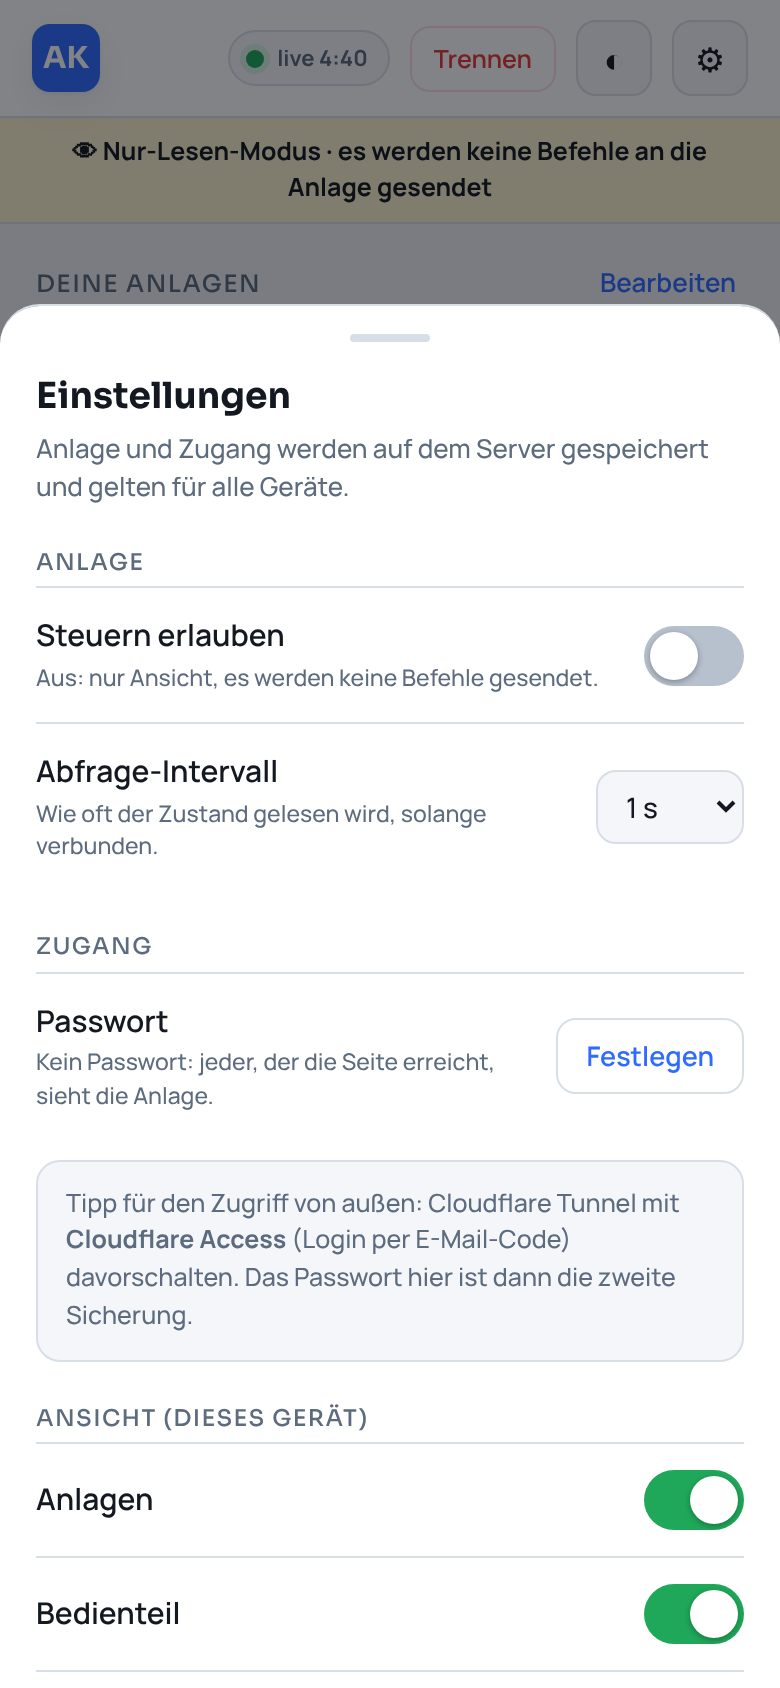
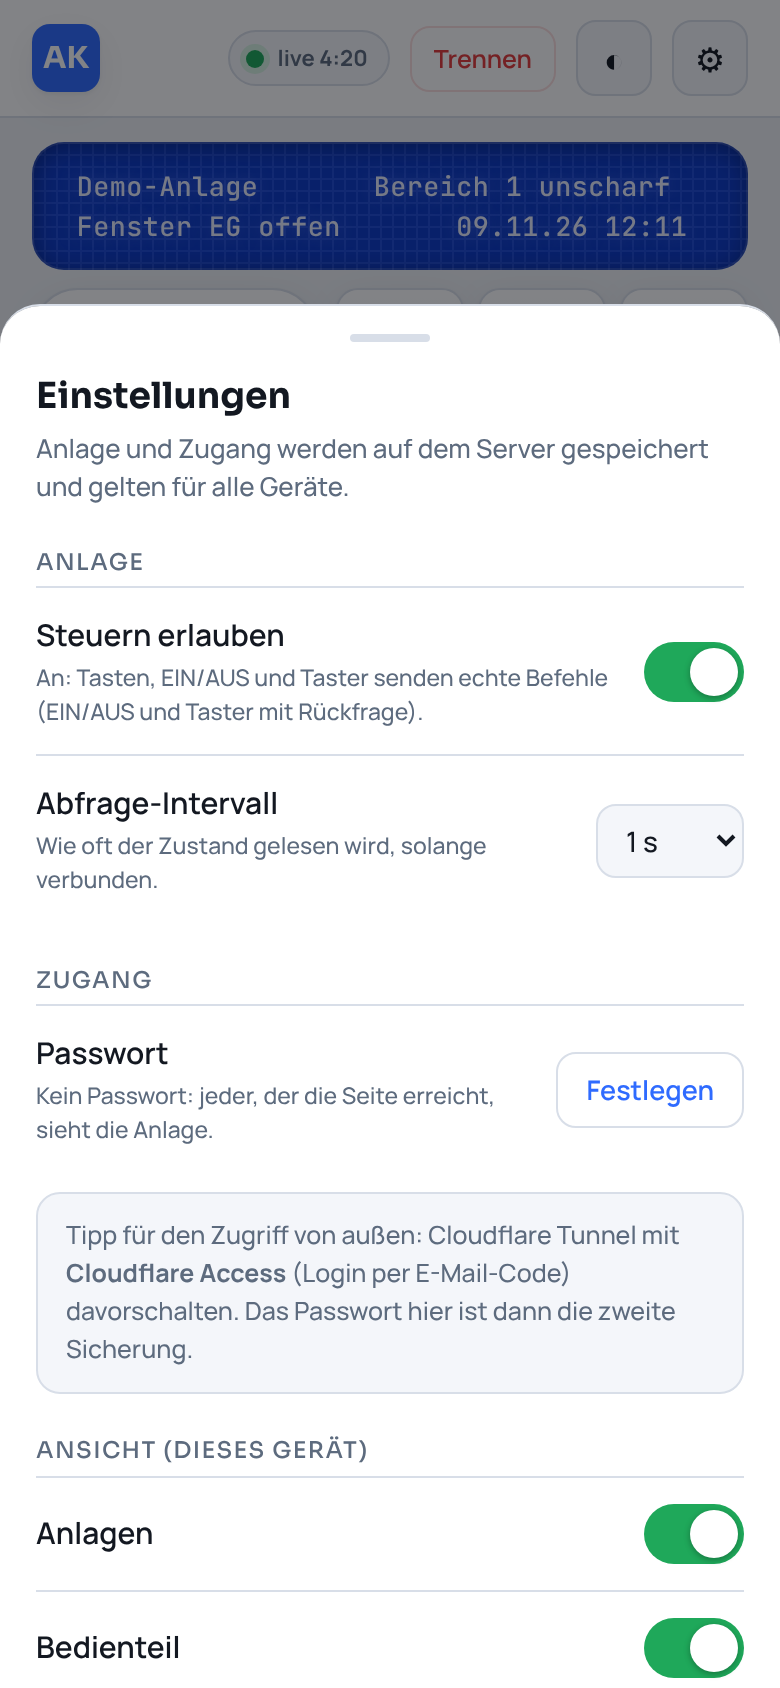
Docs: detailed setup guide, fresh phone and desktop screenshots, README for 0.6.0
Claude-Session: https://claude.ai/code/session_01RQbeZeTP4fgnKgDhfhuUL5

diff --git a/docs/SETUP.md b/docs/SETUP.md
@@ -1,0 +1,281 @@
+# Einrichtung Schritt für Schritt
+
+Diese Anleitung führt dich von null bis zum fertigen Bedienteil, wahlweise als
+**Home-Assistant-Add-on** oder als **Docker-Container**, und optional bis zu Sensoren und
+Tastern in Home Assistant.
+
+> Inoffizielles Projekt, ohne Gewähr. Die App bedient eine echte Alarmanlage. Lass beim ersten
+> Test **„Steuern erlauben“ aus**, dann kann nichts passieren.
+
+**Inhalt**
+
+1. [Was du brauchst](#1-was-du-brauchst)
+2. [Daten der Anlage herausfinden](#2-daten-der-anlage-herausfinden)
+3. [Weg A: Home-Assistant-Add-on](#3-weg-a-home-assistant-add-on)
+4. [Weg B: Docker (ohne Home Assistant)](#4-weg-b-docker-ohne-home-assistant)
+5. [Anlagen anlegen und verbinden](#5-anlagen-anlegen-und-verbinden)
+6. [Steuern einschalten](#6-steuern-einschalten)
+7. [Sensoren und Taster in Home Assistant (MQTT)](#7-sensoren-und-taster-in-home-assistant-mqtt)
+8. [Als App installieren](#8-als-app-installieren)
+9. [Aktualisieren](#9-aktualisieren)
+10. [Fehlerbehebung](#10-fehlerbehebung)
+
+---
+
+## 1. Was du brauchst
+
+- Eine Einbruchmeldeanlage mit **IP-Übertragungseinheit**, die mit der App
+  *MB-Remote Control V2* funktioniert (getestet: DS7700 bzw. „DS7500 IP“, siehe
+  [Kompatibilität](../README.md#compatible-systems)).
+- Die Übertragungseinheit muss im Heimnetz erreichbar sein, standardmäßig auf **Port 8016**.
+- **Entweder** Home Assistant OS bzw. Supervised (für das Add-on) **oder** irgendeinen
+  Docker-Host im selben Netz (Proxmox-LXC, Synology, Raspberry Pi, NAS …).
+- Für Sensoren und Taster in Home Assistant zusätzlich das Add-on **Mosquitto broker**.
+
+## 2. Daten der Anlage herausfinden
+
+Am einfachsten schaust du in der Original-App unter **Anlagenauswahl** nach. Du brauchst:
+
+| Angabe | Beispiel | Hinweis |
+|---|---|---|
+| Adresse | `192.168.178.99` | IP der Übertragungseinheit im Heimnetz. Am besten in der Fritz!Box (bzw. im Router) eine feste IP vergeben. |
+| Port | `8016` | Standard. |
+| Benutzergruppe | `1` | Dieselbe Nummer wie in der Original-App. |
+| AES-Schlüssel | *(meist leer)* | Nur wenn in der Original-App einer eingetragen ist: 32, 48 oder 64 Hex-Zeichen. |
+
+Kurzer Test im Browser (nur lesen, drückt nichts):
+`http://192.168.178.99:8016/ui_init.xml?B-GR=1&S-ID=00&CNT=FFFF`
+Kommt eine XML-Antwort mit `<Session_ID>`, ist die Anlage erreichbar. Mit AES-Schlüssel kommt
+stattdessen `<crypt>…</crypt>`, auch das ist in Ordnung.
+
+## 3. Weg A: Home-Assistant-Add-on
+
+### 3.1 Repository hinzufügen
+
+1. In Home Assistant **Einstellungen → Add-ons → Add-on Store** öffnen.
+2. Oben rechts **⋮ → Repositories**.
+3. `https://github.com/PXLJAKE/ema-webpanel` eintragen und **Hinzufügen**.
+4. Fenster schließen. Im Store taucht unten **Alarm Keypad (EMA)** auf (sonst einmal
+   **⋮ → Nach Updates suchen**).
+
+### 3.2 Installieren und konfigurieren
+
+1. **Alarm Keypad (EMA)** öffnen und **Installieren**. Das Add-on wird auf deinem
+   Home Assistant gebaut, das dauert ein paar Minuten.
+2. Reiter **Konfiguration**:
+
+   | Option | Was eintragen |
+   |---|---|
+   | Adresse der Anlage | IP der Übertragungseinheit, z. B. `192.168.178.99` |
+   | Port der Anlage | `8016` |
+   | Benutzergruppe | wie in der Original-App, meist `1` |
+   | Steuern erlauben | **aus** lassen |
+   | Abfrage-Intervall (ms) | `1000` |
+   | Entitäten in Home Assistant (MQTT) | erst einmal aus, siehe [Abschnitt 7](#7-sensoren-und-taster-in-home-assistant-mqtt) |
+   | Taster in Home Assistant | aus |
+
+   Adresse, Port und Gruppe werden nur **beim allerersten Start** als erste Anlage übernommen.
+   Danach verwaltest du die Anlagen in der App (Abschnitt 5).
+3. Reiter **Info**: **Starten**, und **In Seitenleiste anzeigen** einschalten.
+4. In der Seitenleiste erscheint **Alarmanlage**. Ein Klick öffnet die App.
+
+In Home Assistant meldet dich Home Assistant selbst an. Ein eigenes Passwort ist nicht nötig, das
+Add-on hat auch keinen offenen Port nach außen.
+
+## 4. Weg B: Docker (ohne Home Assistant)
+
+### 4.1 Starten
+
+```bash
+docker run -d --name alarm-keypad --restart unless-stopped \
+  -p 8099:8099 -v ema-data:/data ghcr.io/pxljake/ema-webpanel:latest
+```
+
+oder mit [`docker-compose.yml`](../docker-compose.yml) aus dem Repository: `docker compose up -d`.
+
+- **Synology** (Container Manager): *Projekt → Erstellen*, Compose-Datei einfügen, Port 8099
+  und einen Ordner für `/data` zuordnen.
+- **Proxmox**: in einem LXC oder einer VM mit Docker, gleicher Befehl.
+- Der Container muss die Anlage im Heimnetz erreichen. Normales Bridge-Netzwerk reicht.
+
+### 4.2 Erster Start im Browser
+
+1. `http://<docker-host>:8099` öffnen.
+2. Der Einrichtungs-Assistent fragt nach einem **Passwort**. Empfohlen, sobald die Seite mehr
+   als ein Gerät im Heimnetz erreicht. Du kannst es auch später unter ⚙ festlegen.
+3. Danach legst du deine erste Anlage an (Abschnitt 5).
+
+Alles wird im Volume `/data` gespeichert (`systems.json`, `settings.json`). Passwort vergessen?
+`settings.json` löschen und den Container neu starten: Passwort weg, Steuern wieder aus, die
+Anlagen bleiben.
+
+### 4.3 Zugriff von unterwegs
+
+Gib Port 8099 **nicht** am Router frei. Nimm einen **Cloudflare Tunnel** (in der Compose-Datei
+vorbereitet) und schalte **Cloudflare Access** davor (Login per E-Mail-Code). Das Passwort in
+der App ist dann die zweite Sicherung. Alternativ ein VPN (WireGuard, Tailscale, Fritz!Box-VPN).
+
+## 5. Anlagen anlegen und verbinden
+
+Reiter **Anlagen** (links unten am Handy, links in der Leiste am PC) → **＋ Anlage hinzufügen**.
+
+<p align="center"><img src="screenshots/phone-system-dialog-light.png" width="260" alt="Dialog Anlage hinzufügen"></p>
+
+| Feld | Bedeutung |
+|---|---|
+| Name | frei wählbar, z. B. „Zuhause“ |
+| Adresse | IP oder Hostname, von außen z. B. `name.myfritz.net` |
+| Port | meist `8016` |
+| Gruppe | Benutzergruppe für das Bedienteil, wie in der Original-App |
+| AES-Schlüssel | nur wenn die Anlage einen hat, sonst leer. Beim Bearbeiten: leer = gespeicherten behalten, `-` = Schlüssel löschen. Der Schlüssel wird nie an den Browser zurückgeschickt. |
+| Gruppe für HA | Benutzergruppe der Home-Assistant-Anbindung (Abschnitt 7). „wie oben“ = dieselbe Gruppe. |
+
+Dann die Anlage antippen und **Verbinden**. Oben steht **live** mit einem Countdown.
+
+Wichtig zum Verständnis: Die Anlage lässt immer **nur einen** Nutzer gleichzeitig ans
+Bedienteil. Deshalb verbindet sich die App nur auf Wunsch und trennt nach **5 Minuten ohne
+Bedienung** oder mit **Trennen** wieder. Ist gerade jemand anderes am Bedienteil (Original-App,
+zweites Gerät), zeigt das LCD „gesperrt“. Taster und LEDs gehen trotzdem.
+
+Mehrere Anlagen lassen sich unter **Bearbeiten** sortieren und löschen. Die **erste Anlage in
+der Liste** ist die, die an Home Assistant gemeldet wird.
+
+## 6. Steuern einschalten
+
+Erst wenn LCD, Lampen und Taster stimmen:
+
+- Add-on: in der App **⚙ → Steuern erlauben** (oder die Add-on-Option, gilt ab dem nächsten Start).
+- Docker: **⚙ → Steuern erlauben**. Ist ein Passwort gesetzt, wird es dafür noch einmal abgefragt.
+
+Ab dann senden Ziffern und Pfeile sofort, **EIN**, **AUS** und jeder Taster fragen vorher nach.
+Es gibt bewusst **keine** Panik-, Überfall- oder Notruftaste. Feuer, Wasser und Heizung sind
+reine Anzeigen. Jeder gesendete Befehl steht im Log des Add-ons bzw. Containers.
+
+## 7. Sensoren und Taster in Home Assistant (MQTT)
+
+Damit bekommst du die Lampen und Taster der Anlage als Entitäten, für Dashboards und
+Automationen, z. B. eine Einbruch-Benachrichtigung.
+
+### 7.1 Wie das funktioniert
+
+Das Add-on hält dafür eine **eigene, dauerhafte Verbindung**, die **nur die Taster- und
+LED-Seite** liest. Das ist an einer echten Anlage geprüft: Diese Verbindung belegt das
+Bedienteil **nicht**, es bleibt für dich, die Original-App und das echte Bedienteil frei.
+
+### 7.2 Eigene Benutzergruppe (empfohlen)
+
+Am saubersten bekommt die HA-Verbindung eine **eigene Benutzergruppe** in der Anlage, der nur
+**Taster und LEDs** freigegeben sind, ohne Bedienteil. Dann kann Home Assistant das Bedienteil
+schon von der Anlage aus nicht bedienen, und du legst dort auch fest, welche Taster HA schalten
+darf. Wie man Gruppen einrichtet, hängt von deiner Anlage ab (Errichter-Programmierung der
+Übertragungseinheit).
+
+Beispiel: Hauptgruppe `3` für das Bedienteil, Gruppe `2` nur mit Tastern für HA. Dann bei der
+Anlage **Gruppe = 3** und **Gruppe für HA = 2** eintragen. Ohne eigene Gruppe funktioniert es mit
+„wie oben“ genauso, nur ohne diese zweite Sicherung.
+
+### 7.3 Einschalten
+
+1. Add-on **Mosquitto broker** installieren und starten, falls noch nicht vorhanden (unter
+   *Einstellungen → Geräte & Dienste* sollte die Integration **MQTT** auftauchen). Benutzer und
+   Passwort holt sich das Add-on automatisch.
+2. Im Add-on **Alarm Keypad (EMA)** → **Konfiguration**: **Entitäten in Home Assistant (MQTT)**
+   einschalten, speichern, Add-on **neu starten**.
+3. Unter *Einstellungen → Geräte & Dienste → MQTT* erscheint ein Gerät mit dem Namen deiner
+   Anlage.
+
+Docker ohne Home Assistant, aber mit eigenem Broker: `-e MQTT_ENTITIES=1 -e MQTT_HOST=… -e
+MQTT_PORT=1883 -e MQTT_USER=… -e MQTT_PASSWORD=…` (optional `-e MQTT_BUTTONS=1`).
+
+### 7.4 Was es gibt
+
+| Entität | Art | Wann verfügbar |
+|---|---|---|
+| Die 8 LEDs der LED-Seite (z. B. „Einbruch Haus“) | Binärsensor | immer |
+| Status der 8 Taster (z. B. „Weihnachtsbel. Status“) | Binärsensor | immer |
+| Feuer, Wasseralarm, Heizung Störung | Binärsensor | immer |
+| Verbindung zur Anlage | Binärsensor (Diagnose) | immer |
+| Status Betrieb, Einbruch, Sabotage, Überfall, Störungen … | Binärsensor | nur solange das Bedienteil in der App offen ist |
+| Die Taster selbst | Schaltfläche | nur wenn **Steuern erlauben** **und** **Taster in Home Assistant** an sind |
+
+Blinken zählt als „an“. Jede Lampe hat die Attribute `color` und `blink`. Die Namen kommen aus
+der Anlage, leere Plätze werden weggelassen.
+
+Die Statuslampen des Bedienteils (Betrieb, Einbruch usw.) liefert die Anlage nur über die
+Bedienteil-Seite. Sie dauerhaft abzufragen würde das Bedienteil sperren, deshalb sind sie nur
+aktuell, solange du es in der App offen hast. Für Alarm-Automationen nimm die LEDs der LED-Seite
+(z. B. „Einbruch Haus“), die sind immer da.
+
+### 7.5 Taster aus Home Assistant schalten
+
+1. In der App **Steuern erlauben** einschalten.
+2. Add-on-Option **Taster in Home Assistant** einschalten und neu starten.
+
+Die Schaltflächen erscheinen dann am Gerät. Schaltest du Steuern wieder aus, verschwinden sie
+aus Home Assistant, und Drücke von HA werden ignoriert. Achtung: Schaltflächen in Home Assistant
+fragen **nicht** nach. Überleg dir, welche Automationen sie drücken dürfen.
+
+### 7.6 Beispiel: Einbruch-Benachrichtigung
+
+Die Entity-ID findest du am Gerät (z. B. `binary_sensor.zuhause_einbruch_haus`).
+
+```yaml
+alias: Einbruch melden
+triggers:
+  - trigger: state
+    entity_id: binary_sensor.zuhause_einbruch_haus
+    to: "on"
+actions:
+  - action: notify.mobile_app_dein_handy
+    data:
+      title: "Alarmanlage"
+      message: "Einbruch Haus ausgelöst!"
+      data:
+        push:
+          interruption-level: critical
+mode: single
+```
+
+Und eine einfache Dashboard-Karte:
+
+```yaml
+type: entities
+title: Alarmanlage
+entities:
+  - binary_sensor.zuhause_verbindung_zur_anlage
+  - binary_sensor.zuhause_einbruch_haus
+  - binary_sensor.zuhause_feuer
+  - binary_sensor.zuhause_wasseralarm
+```
+
+## 8. Als App installieren
+
+Die Seite lässt sich wie eine App installieren, sobald sie über **HTTPS** erreichbar ist (z. B.
+über den Cloudflare Tunnel): am Handy **Teilen → Zum Home-Bildschirm** (iPhone) bzw. **⋮ → App
+installieren** (Android, Chrome), am PC über das Installieren-Symbol in der Adressleiste. In Home
+Assistant nutzt du einfach die HA-App, dort ist das Bedienteil in der Seitenleiste.
+
+## 9. Aktualisieren
+
+- **Add-on**: Home Assistant zeigt Updates unter *Einstellungen → Add-ons*. Falls nicht: im Store
+  **⋮ → Nach Updates suchen**. Das Add-on wird lokal gebaut (ein paar Minuten).
+- **Docker**: `docker pull ghcr.io/pxljake/ema-webpanel:latest` und Container neu erstellen
+  (`docker compose pull && docker compose up -d`).
+
+Deine Anlagen und Einstellungen bleiben in beiden Fällen erhalten.
+
+## 10. Fehlerbehebung
+
+| Problem | Lösung |
+|---|---|
+| „nicht verbunden“ | Adresse, Port und Gruppe prüfen. Unter **⚙ → Verbindung testen** siehst du die rohe Antwort der Anlage. Ist der Browser-Test aus Abschnitt 2 erfolgreich? |
+| LCD zeigt „gesperrt“ | Jemand anderes ist am Bedienteil (Original-App, zweites Gerät). Dort trennen oder warten. Taster und LEDs gehen trotzdem. |
+| „Die Anlage antwortet verschlüsselt“ | Die Anlage hat einen AES-Schlüssel: bei der Anlage eintragen. |
+| „Entschlüsseln fehlgeschlagen“ | AES-Schlüssel falsch. Neu eintragen. |
+| HA-Entitäten fehlen | Läuft Mosquitto? Option **Entitäten in Home Assistant** an und Add-on neu gestartet? Im Add-on-Log steht „MQTT verbunden“ und „Hintergrund-Sitzung gestartet“. |
+| HA-Entitäten „nicht verfügbar“ | Die Hintergrund-Verbindung erreicht die Anlage nicht, oder die HA-Gruppe hat keine Rechte. Log prüfen. |
+| Statuslampen in HA „nicht verfügbar“ | Normal, solange das Bedienteil in der App nicht offen ist (Abschnitt 7.4). |
+| Keine Taster-Schaltflächen in HA | **Steuern erlauben** und **Taster in Home Assistant** müssen beide an sein. |
+| Anlage nimmt keine Verbindung an | Sie erlaubt nur wenige Sitzungen gleichzeitig. Andere Apps schließen, kurz warten. |
+| Beim Update „exit code 137“ im Log | Harmlos: der alte Container wurde beim Update hart beendet. |
+| Umlaute im LCD falsch | **⚙ → Verbindung testen** öffnen und die Rohdaten in einem Issue melden. |

diff --git a/README.md b/README.md
@@ -15,6 +15,11 @@ desktop, can be installed as an app (PWA), and has a light and a dark theme. No 
   <img src="docs/screenshots/phone-buttons-dark.png" width="230" alt="Function buttons and indicators">
   <img src="docs/screenshots/phone-keypad-light.png" width="230" alt="Keypad on a phone, light theme">
 </p>
+<p align="center">
+  <img src="docs/screenshots/desktop-keypad-dark.png" width="700" alt="Desktop layout, dark theme">
+</p>
+
+**➜ Step-by-step setup guide (German): [docs/SETUP.md](docs/SETUP.md)**
 
 <sub>Screenshots use the built-in demo panel ([`tools/demo-panel.mjs`](tools/demo-panel.mjs)) with made-up data.</sub>
 
@@ -28,7 +33,7 @@ keypad protocol as the vendor's *MB-Remote Control* app, and shows the panel's k
 |---|---|
 | Honeywell / NOVAR **DS7700** IP transmitter (reports as *DS7500 IP*), firmware `ADIST.10.0V08.05`, without AES key | ✅ Tested daily by the author: live display, buttons, LEDs |
 | Other units that work with the *MB-Remote Control V2* app (e.g. other DS7500/DS7700 firmware versions) | 🟡 Very likely, not tested yet |
-| Units with an AES key set in the original app | ⚪ Not supported yet (the protocol is known, encryption is still missing) |
+| Units with an AES key set in the original app | 🟡 Supported since 0.6.0 (same AES scheme as the original app), not yet tested on a real panel |
 
 Rule of thumb: if the original *MB-Remote Control V2* app can show your keypad over the network
 (default port `8016`), this app should work too. Please open an issue with your device and
@@ -41,7 +46,9 @@ used only to describe compatibility; this project is not affiliated with them.
 - Virtual keypad (digits, ▲▼, EIN/AUS, function keys, Revision) and the panel's function buttons
 - **View-only by default.** Sending commands is an explicit setting (*Steuern erlauben*), off by default
 - Arm/disarm and function buttons always ask for confirmation first
-- **Several systems.** Add, edit, sort and delete systems in the app (name, address, port, group), including remote ones via a MyFRITZ/DynDNS name. One connection at a time
+- **Several systems.** Add, edit, sort and delete systems in the app (name, address, port, group, optional AES key, group for Home Assistant), including remote ones via a MyFRITZ/DynDNS name. One connection at a time
+- **Home Assistant entities over MQTT** (optional): the panel's LEDs, Taster states and indicators as binary sensors for dashboards and automations (e.g. burglary alerts), Taster as HA buttons when control is allowed. A separate background session reads only the button/LED page, so it never blocks the keypad (verified on a real panel); it can use its own user group
+- **AES key** support for panels that use one; plain text otherwise
 - **Connects on demand.** The panel allows only one keypad user at a time, so the add-on connects when you tap *Verbinden*, disconnects after 5 minutes without activity or when you tap *Trennen*, leaving the panel free for other apps
 - Responsive layout: phone (bottom tabs) and tablet/desktop (side rail, wide keypad)
 - **Set up entirely in the browser**: systems, *Steuern erlauben*, poll interval and an optional password. No config files or variables
@@ -66,7 +73,7 @@ Then open `http://<docker-host>:8099`. The first start walks you through it: set
 - **Proxmox**: run it in any LXC/VM with Docker, same command as above.
 - The container must reach the panel (e.g. `192.168.178.99:8016`) on your LAN. Normal bridge
   networking is enough.
-- Images: `linux/amd64` and `linux/arm64`, tags `latest` and the version (e.g. `0.4.0`).
+- Images: `linux/amd64` and `linux/arm64`, tags `latest` and the version (e.g. `0.6.0`).
 
 ### Access from outside (Cloudflare Tunnel)
 
@@ -86,6 +93,8 @@ systems stay.
 
 ## Install as Home Assistant add-on
 
+Detailed walkthrough in German: [docs/SETUP.md](docs/SETUP.md).
+
 1. In Home Assistant open **Settings → Add-ons → Add-on store → ⋮ → Repositories** and add
    `https://github.com/PXLJAKE/ema-webpanel`.
 2. Install **Alarm Keypad (EMA)**, open the **Configuration** tab and set the panel address
@@ -104,6 +113,8 @@ local add-on.)
 | `user_group` | `1` | Same group number as in the original app's panel entry |
 | `control_enabled` | `false` | `false` = view only. `true` = keys/buttons send real commands. Also switchable in the app |
 | `poll_interval_ms` | `1000` | How often state is read. Also adjustable in the app |
+| `mqtt_entities` | `false` | Publish LEDs, Taster and indicators as Home Assistant entities (needs the Mosquitto broker add-on) |
+| `mqtt_buttons` | `false` | Also offer the Taster as HA buttons; only works while control is allowed |
 
 The app settings win until you change an option in Home Assistant; a changed option is applied
 on the next add-on start. In Home Assistant no app password is used, HA itself logs you in.
@@ -124,10 +135,20 @@ The app detects Home Assistant by the Supervisor token. Environment variables fo
 
 ## More screenshots
 
-| Desktop / tablet | Systems | Settings |
-|---|---|---|
-| <img src="docs/screenshots/desktop-keypad-dark.png" width="420" alt="Desktop layout"> | <img src="docs/screenshots/phone-systems-light.png" width="200" alt="Systems page"> | <img src="docs/screenshots/phone-settings-light.png" width="200" alt="Settings"> |
-| <img src="docs/screenshots/desktop-buttons-dark.png" width="420" alt="Desktop buttons"> | <img src="docs/screenshots/phone-leds-dark.png" width="200" alt="LEDs page"> | |
+**Phone** (dark and light)
+
+| Keypad | Buttons | LEDs | Systems | Add system | Settings |
+|---|---|---|---|---|---|
+| <img src="docs/screenshots/phone-keypad-dark.png" width="130" alt="Keypad"> | <img src="docs/screenshots/phone-buttons-dark.png" width="130" alt="Buttons"> | <img src="docs/screenshots/phone-leds-dark.png" width="130" alt="LEDs"> | <img src="docs/screenshots/phone-systems-dark.png" width="130" alt="Systems"> | <img src="docs/screenshots/phone-system-dialog-dark.png" width="130" alt="Add system"> | <img src="docs/screenshots/phone-settings-dark.png" width="130" alt="Settings"> |
+| <img src="docs/screenshots/phone-keypad-light.png" width="130" alt="Keypad"> | <img src="docs/screenshots/phone-buttons-light.png" width="130" alt="Buttons"> | <img src="docs/screenshots/phone-leds-light.png" width="130" alt="LEDs"> | <img src="docs/screenshots/phone-systems-light.png" width="130" alt="Systems"> | <img src="docs/screenshots/phone-system-dialog-light.png" width="130" alt="Add system"> | <img src="docs/screenshots/phone-settings-light.png" width="130" alt="Settings"> |
+
+**Desktop / tablet**
+
+| Dark | Light |
+|---|---|
+| <img src="docs/screenshots/desktop-keypad-dark.png" width="420" alt="Keypad, dark"> | <img src="docs/screenshots/desktop-keypad-light.png" width="420" alt="Keypad, light"> |
+| <img src="docs/screenshots/desktop-buttons-dark.png" width="420" alt="Buttons, dark"> | <img src="docs/screenshots/desktop-buttons-light.png" width="420" alt="Buttons, light"> |
+| <img src="docs/screenshots/desktop-leds-dark.png" width="420" alt="LEDs, dark"> | <img src="docs/screenshots/desktop-systems-light.png" width="420" alt="Systems, light"> |
 
 ## Try it without a panel
 
@@ -164,4 +185,6 @@ Modernes Bedienteil für eine kompatible Einbruchmeldeanlage, als Home-Assistant
 Docker-Container (`docker run -p 8099:8099 -v ema-data:/data ghcr.io/pxljake/ema-webpanel`).
 Eingerichtet wird alles im Browser: Anlagen, „Steuern erlauben“ und ein optionales Passwort.
 **Standardmäßig nur Ansicht**; EIN/AUS und Taster fragen immer nach. Von außen am besten über
-Cloudflare Tunnel mit Cloudflare Access. Inoffiziell, ohne Gewähr, Nutzung auf eigene Gefahr.
+Cloudflare Tunnel mit Cloudflare Access. Optional kommen Lampen und Taster per MQTT als
+Entitäten nach Home Assistant, ohne das Bedienteil zu blockieren. Ausführliche Anleitung:
+**[docs/SETUP.md](docs/SETUP.md)**. Inoffiziell, ohne Gewähr, Nutzung auf eigene Gefahr.

diff --git a/ema-panel/DOCS.md b/ema-panel/DOCS.md
@@ -4,6 +4,8 @@ Modern web keypad for a compatible intrusion alarm panel, shown in the Home Assi
 
 **Unofficial. No affiliation, no warranty, use at your own risk.**
 
+Full step-by-step guide (German): https://github.com/PXLJAKE/ema-webpanel/blob/main/docs/SETUP.md
+
 ## Setup
 
 1. Set **Panel address** (IP of the transmitter unit in your network) and, if needed, the
